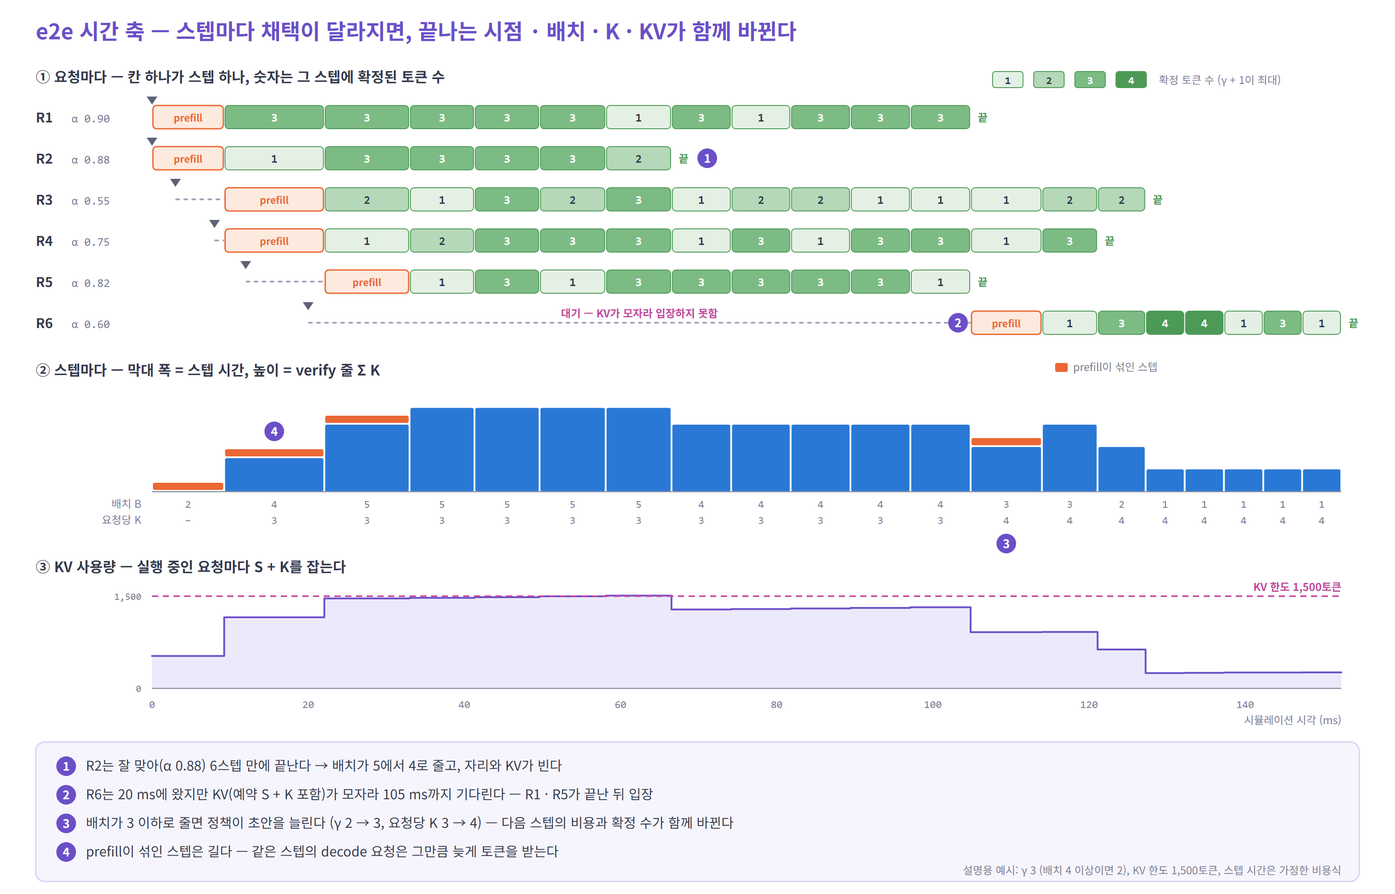
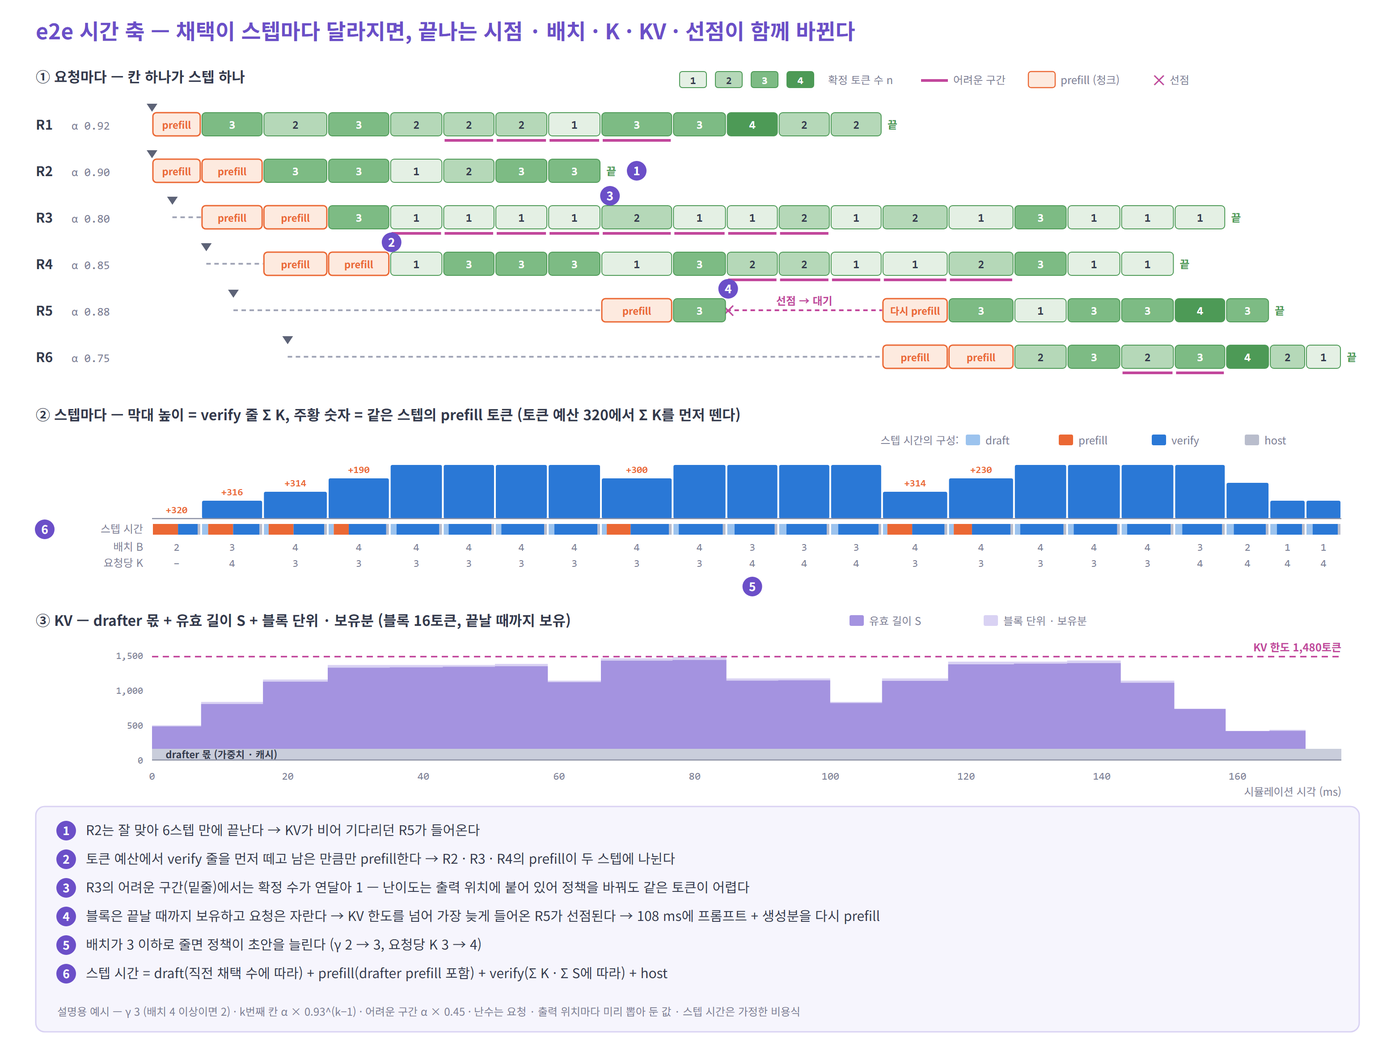
docs: put more of the simulator points into the e2e timeline figure
- Figure 31 now includes per-slot decay, output-position hard segments,
  pre-drawn random numbers, the token budget with chunked prefill,
  block-granular KV held until finish, drafter memory, preemption with
  re-prefill, and the step-time breakdown
- 06: symbol table, what varies per unit, and which of the eight points
  the figure covers

diff --git a/deepstudy/speculative-decoding/figures/make_figures.py b/deepstudy/speculative-decoding/figures/make_figures.py
@@ -903,65 +903,117 @@ def fig_sim_loop():
 
 
 # ---------------------------------------------------------------- 31. e2e 시간 축의 dynamics (작은 예시 시뮬레이션)
-E2E_REQ = {  # 도착 ms, 프롬프트, 출력 길이, α
-    "R1": (0, 300, 30, .90), "R2": (0, 220, 16, .88), "R3": (3, 360, 24, .55),
-    "R4": (8, 260, 28, .75), "R5": (12, 300, 22, .82), "R6": (20, 240, 18, .60)}
-E2E_CAP = 1500
+E2E_REQ = {  # 도착 ms, 프롬프트, 출력 길이 L, α, 어려운 구간(출력 위치 [시작, 끝))
+    "R1": (0, 300, 30, .92, [(12, 19)]), "R2": (0, 220, 16, .90, []),
+    "R3": (3, 360, 24, .80, [(3, 13)]), "R4": (8, 260, 28, .85, [(16, 22)]),
+    "R5": (12, 300, 22, .88, []), "R6": (20, 240, 18, .75, [(5, 9)])}
+E2E = dict(rho=0.93, hard=0.45, blk=16, cap=1480, dmem=160, budget=320, seed=5)
 
 
-def _e2e_sim(seed=11):
+def _e2e_sim():
+    import math
     import random
-    random.seed(seed)
-    st = {k: dict(arr=v[0], P=v[1], L=v[2], al=v[3], S=0, gen=0, state="wait", aprev=0, segs=[])
-          for k, v in E2E_REQ.items()}
-    t, steps = 0.0, []
+    P_ = E2E
+    rnd = random.Random(P_["seed"])
+    U = {k: [rnd.random() for _ in range(80)] for k in E2E_REQ}      # 요청 · 출력 위치마다 미리 뽑은 난수
+    st = {k: dict(arr=v[0], P=v[1], L=v[2], al=v[3], hard=v[4], state="wait", gen=0, S=0, done_pre=0, need_pre=v[1],
+                  held=0, aprev=0, segs=[], pres=[], order=None, events=[]) for k, v in E2E_REQ.items()}
+    nblk = (P_["cap"] - P_["dmem"]) // P_["blk"]
 
-    def gamma(B):          # Dynamic SD식: 배치 4 이상이면 초안을 줄인다
+    def blocks(tok):
+        return math.ceil(tok / P_["blk"])
+
+    def gamma(B):                                                     # 배치 4 이상이면 초안을 줄인다
         return 3 if B <= 3 else 2
+
+    def ishard(s, pos):
+        return any(a <= pos < b for a, b in s["hard"])
+    t, steps, order = 0.0, [], 0
     while any(s["state"] != "done" for s in st.values()):
-        run = [k for k, s in st.items() if s["state"] == "run"]
-        reserved = sum(st[k]["S"] + gamma(max(len(run), 1)) + 1 for k in run)
-        new = []
-        for k, s in st.items():
+        used = sum(s["held"] if s["state"] == "run" else blocks(s["need_pre"] + 4)
+                   for s in st.values() if s["state"] in ("run", "pre"))
+        for k, s in st.items():                                       # 입장: 프롬프트 블록이 지금 들어가야 한다
             if s["state"] == "wait" and s["arr"] <= t:
-                if reserved + s["P"] + gamma(len(run) + len(new) + 1) + 1 <= E2E_CAP:
-                    new.append(k)
-                    reserved += s["P"] + gamma(len(run) + len(new)) + 1
+                if used + blocks(s["need_pre"] + 4) <= nblk:
+                    order += 1
+                    s.update(state="pre", held=0, done_pre=0, order=order)
+                    s["events"].append(("adm", t))
+                    used += blocks(s["need_pre"] + 4)
                 else:
                     break
-        if not run and not new:
+        run = [k for k, s in st.items() if s["state"] == "run"]
+        pre = sorted([k for k, s in st.items() if s["state"] == "pre"], key=lambda k: st[k]["order"])
+        if not run and not pre:
             t = min(s["arr"] for s in st.values() if s["state"] == "wait")
             continue
-        B = len(run) + len(new)
-        g = gamma(B)
-        sumK = (g + 1) * len(run)
-        draft = (0.35 * g + 0.02 * sum(st[k]["aprev"] + 1 for k in run)) if run else 0
-        dt = 3.0 + 0.10 * sumK + 0.002 * sum(st[k]["S"] for k in run) + 0.012 * sum(st[k]["P"] for k in new) + draft
-        rec = dict(t0=t, t1=t + dt, B=B, K=(g + 1) if run else 0, sumK=sumK, pre=bool(new), resv=reserved)
+        K = gamma(len(run) + len(pre)) + 1
+        for k in run:                                                 # S + K 블록 — 끝날 때까지 줄이지 않는다
+            st[k]["held"] = max(st[k]["held"], blocks(st[k]["S"] + K))
+        left, chunks = P_["budget"] - K * len(run), {}                # 토큰 예산: 검증 줄을 먼저 뗀다
+        for k in pre:
+            s = st[k]
+            c = min(left, s["need_pre"] - s["done_pre"])
+            if c <= 0:
+                break
+            chunks[k] = c
+            left -= c
+            s["held"] = max(s["held"], blocks(s["done_pre"] + c))
+        preempted = []
+        while sum(st[k]["held"] for k in st if st[k]["state"] in ("run", "pre")) > nblk:   # 선점: 가장 늦게 들어온 요청
+            v = max([k for k in st if st[k]["state"] in ("run", "pre")], key=lambda k: st[k]["order"])
+            s = st[v]
+            s.update(state="wait", held=0, need_pre=s["P"] + s["gen"], done_pre=0, S=0)
+            s["events"].append(("preempt", t))
+            preempted.append(v)
+            if v in run:
+                run.remove(v)
+            chunks.pop(v, None)
+        g = gamma(len(run) + len(chunks))
+        K = g + 1
+        sumK = K * len(run)
+        draft = (0.30 * g + 0.03 * sum(st[k]["aprev"] + 1 for k in run)) if run else 0.0
+        prefill = sum(chunks.values()) * (0.010 + 0.002)                                  # target + drafter prefill
+        verify = 3.0 + 0.10 * sumK + 0.002 * sum(st[k]["S"] for k in run)
+        host = 0.4
+        dt = draft + prefill + verify + host
+        rec = dict(t0=t, t1=t + dt, B=len(run) + len(chunks), K=K if run else 0, sumK=sumK, chunk=sum(chunks.values()),
+                   comp=(draft, prefill, verify, host), preempted=preempted)
         for k in run:
             s = st[k]
+            g0 = s["gen"]
+            hard_any = any(ishard(s, g0 + j) for j in range(g))
             a = 0
-            while a < g and random.random() < s["al"]:
+            while a < g:
+                al = s["al"] * E2E["rho"] ** a * (E2E["hard"] if ishard(s, g0 + a) else 1.0)
+                if U[k][g0 + a] >= al:
+                    break
                 a += 1
             n = min(a + 1, s["L"] - s["gen"])
             s["gen"] += n
             s["S"] += n
             s["aprev"] = a
-            s["segs"].append((t, t + dt, n))
+            s["segs"].append((t, t + dt, n, hard_any))
             if s["gen"] >= s["L"]:
-                s["state"], s["fin"] = "done", t + dt
-        for k in new:
+                s.update(state="done", fin=t + dt, held=0)
+        for k, c in chunks.items():
             s = st[k]
-            s.update(state="run", S=s["P"] + 1, gen=1, adm=t, pre=(t, t + dt))
-        rec["valid"] = sum(s["S"] for s in st.values() if s["state"] == "run")
+            s["pres"].append((t, t + dt, c, s["need_pre"] > s["P"]))
+            s["done_pre"] += c
+            if s["done_pre"] >= s["need_pre"]:
+                s.update(state="run", S=s["need_pre"] + 1, aprev=0)
+                s["gen"] += 1
+                s["held"] = max(s["held"], blocks(s["S"]))
+        live = [s for s in st.values() if s["state"] in ("run", "pre")]
+        rec["valid"] = sum(s["S"] if s["state"] == "run" else s["done_pre"] for s in live)
+        rec["held"] = sum(s["held"] for s in live) * P_["blk"]
         steps.append(rec)
         t += dt
     return st, steps
 
 
 def fig_e2e_timeline():
-    f = Fig("31-e2e-timeline", 1560, 1000)
-    f.title(40, 44, "e2e 시간 축 — 스텝마다 채택이 달라지면, 끝나는 시점 · 배치 · K · KV가 함께 바뀐다")
+    f = Fig("31-e2e-timeline", 1560, 1190)
+    f.title(40, 44, "e2e 시간 축 — 채택이 스텝마다 달라지면, 끝나는 시점 · 배치 · K · KV · 선점이 함께 바뀐다")
     st, steps = _e2e_sim()
     T = steps[-1]["t1"]
     x0, x1 = 170, 1500
@@ -969,68 +1021,106 @@ def fig_e2e_timeline():
     def X(t):
         return x0 + t / T * (x1 - x0)
     GREEN = {1: "#e4f0e4", 2: "#b5d8b8", 3: "#7dbb84", 4: "#4d9a56"}
+    DRAFTC, HOSTC = "#9cc3ee", "#b9bdcc"
+
+    # 범례
+    lx = 760
+    for n in (1, 2, 3, 4):
+        f.rect(lx + (n - 1) * 40, 80, 30, 18, GREEN[n], KINDS["ok"][1], 3, 1)
+        f.text(lx + (n - 1) * 40 + 15, 94, str(n), 12, weight=700, color="#ffffff" if n >= 3 else INK, mono=True)
+    f.text(lx + 166, 94, "확정 토큰 수 n", 12, "start", color=MUTED)
+    f.line(lx + 270, 90, lx + 300, 90, KINDS["no"][1], 3)
+    f.text(lx + 306, 94, "어려운 구간", 12, "start", color=MUTED)
+    f.rect(lx + 390, 80, 30, 18, KINDS["t"][0], KINDS["t"][1], 3, 1.2)
+    f.text(lx + 426, 94, "prefill (청크)", 12, "start", color=MUTED)
+    f.text(lx + 530, 95, "✕", 15, "start", 700, KINDS["no"][1])
+    f.text(lx + 548, 94, "선점", 12, "start", color=MUTED)
 
     # ① 요청별 진행
-    f.text(40, 92, "① 요청마다 — 칸 하나가 스텝 하나, 숫자는 그 스텝에 확정된 토큰 수", 16, "start", 700)
+    f.text(40, 92, "① 요청마다 — 칸 하나가 스텝 하나", 16, "start", 700)
     rows = {}
     for i, (k, s) in enumerate(st.items()):
-        y = 116 + i * 46
+        y = 124 + i * 52
         rows[k] = y
         f.text(40, y + 21, k, 15, "start", 700)
         f.text(80, y + 21, f"α {s['al']:.2f}", 13, "start", color=MUTED, mono=True)
-        if s["adm"] > s["arr"] + 0.5:
-            f.line(X(s["arr"]), y + 15, X(s["adm"]), y + 15, "#a3a7b8", 2, "5 4")
-            if s["adm"] - s["arr"] > 30:
-                f.text((X(s["arr"]) + X(s["adm"])) / 2, y + 9, "대기 — KV가 모자라 입장하지 못함", 12, color=KINDS["no"][1], weight=700)
         f.raw(f'<path d="M{X(s["arr"]):.1f},{y + 1} l-6,-9 h12 z" fill="#5d6377"/>')
-        p0, p1 = s["pre"]
-        f.rect(X(p0) + 1, y + 2, X(p1) - X(p0) - 2, 26, KINDS["t"][0], KINDS["t"][1], 4, 1.5)
-        f.text((X(p0) + X(p1)) / 2, y + 20, "prefill", 11, color=KINDS["t"][1], weight=700)
-        for a_, b_, n in s["segs"]:
+        adm = [tt for e, tt in s["events"] if e == "adm"]
+        pre = [tt for e, tt in s["events"] if e == "preempt"]
+        if adm[0] > s["arr"] + 0.5:
+            f.line(X(s["arr"]), y + 15, X(adm[0]), y + 15, "#a3a7b8", 2, "5 4")
+        for tp in pre:
+            back = next(tt for tt in adm if tt > tp)
+            f.line(X(tp), y + 15, X(back), y + 15, KINDS["no"][1], 2, "5 4")
+            f.text(X(tp) + 2, y + 21, "✕", 16, "middle", 700, KINDS["no"][1])
+            f.text((X(tp) + X(back)) / 2, y + 9, "선점 → 대기", 12, weight=700, color=KINDS["no"][1])
+        for a_, b_, c, again in s["pres"]:
+            f.rect(X(a_) + 1, y + 2, X(b_) - X(a_) - 2, 26, KINDS["t"][0], KINDS["t"][1], 4, 1.5)
+            lab = "다시 prefill" if again else ("prefill" if X(b_) - X(a_) > 52 else "")
+            f.text((X(a_) + X(b_)) / 2, y + 20, lab, 11, color=KINDS["t"][1], weight=700)
+        for a_, b_, n, hard in s["segs"]:
             f.rect(X(a_) + 1, y + 2, X(b_) - X(a_) - 2, 26, GREEN[n], KINDS["ok"][1], 4, 1)
             f.text((X(a_) + X(b_)) / 2, y + 20, str(n), 13, weight=700, color="#ffffff" if n >= 3 else INK, mono=True)
-        f.text(X(s["fin"]) + 8, y + 20, "끝", 12, "start", 700, KINDS["ok"][1])
-    lx = 1110
-    for n in (1, 2, 3, 4):
-        f.rect(lx + (n - 1) * 46, 80, 34, 18, GREEN[n], KINDS["ok"][1], 3, 1)
-        f.text(lx + (n - 1) * 46 + 17, 94, str(n), 12, weight=700, color="#ffffff" if n >= 3 else INK, mono=True)
-    f.text(lx + 186, 94, "확정 토큰 수 (γ + 1이 최대)", 12, "start", color=MUTED)
+            if hard:
+                f.line(X(a_) + 2, y + 33, X(b_) - 2, y + 33, KINDS["no"][1], 3)
+        f.text(X(s["fin"]) + 6, y + 20, "끝", 12, "start", 700, KINDS["ok"][1])
 
-    # ② 스텝별 verify 줄 수와 배치
-    top2 = 420
-    f.text(40, top2, "② 스텝마다 — 막대 폭 = 스텝 시간, 높이 = verify 줄 Σ K", 16, "start", 700)
-    base2, hmax = top2 + 130, 100
+    # ② 스텝
+    top2 = 470
+    f.text(40, top2, f"② 스텝마다 — 막대 높이 = verify 줄 Σ K, 주황 숫자 = 같은 스텝의 prefill 토큰 (토큰 예산 {E2E['budget']}에서 Σ K를 먼저 뗀다)", 16,
+           "start", 700)
+    base2, hmax = top2 + 110, 80
     for r in steps:
+        xa, xb = X(r["t0"]), X(r["t1"])
         h = r["sumK"] / 16 * hmax
-        f.rect(X(r["t0"]) + 1, base2 - h, X(r["t1"]) - X(r["t0"]) - 2, h, SOLID["d"], "none", 2)
-        if r["pre"]:
-            f.rect(X(r["t0"]) + 1, base2 - h - 10, X(r["t1"]) - X(r["t0"]) - 2, 8, SOLID["t"], "none", 2)
-        f.text((X(r["t0"]) + X(r["t1"])) / 2, base2 + 18, str(r["B"]), 12, color=MUTED, mono=True)
-        f.text((X(r["t0"]) + X(r["t1"])) / 2, base2 + 36, str(r["K"]) if r["K"] else "–", 12, color=MUTED, mono=True)
+        f.rect(xa + 1, base2 - h, xb - xa - 2, h, SOLID["d"], "none", 2)
+        if r["chunk"]:
+            f.text((xa + xb) / 2, base2 - h - 6, f"+{r['chunk']}", 11, weight=700, color=SOLID["t"], mono=True)
+        xx = xa + 1                                                   # 스텝 시간의 구성: draft · prefill · verify · host
+        for part, col in zip(r["comp"], (DRAFTC, SOLID["t"], SOLID["d"], HOSTC)):
+            w = part / (r["t1"] - r["t0"]) * (xb - xa - 2)
+            if w > 0:
+                f.rect(xx, base2 + 6, w, 12, col, "none", 0)
+            xx += w
+        f.text((xa + xb) / 2, base2 + 36, str(r["B"]), 12, color=MUTED, mono=True)
+        f.text((xa + xb) / 2, base2 + 54, str(r["K"]) if r["K"] else "–", 12, color=MUTED, mono=True)
     f.line(x0, base2, x1, base2, "#8b90a3", 1.2)
-    f.text(x0 - 12, base2 + 18, "배치 B", 12, "end", color=MUTED)
-    f.text(x0 - 12, base2 + 36, "요청당 K", 12, "end", color=MUTED)
-    f.rect(1180, top2 - 14, 14, 10, SOLID["t"], "none", 2)
-    f.text(1200, top2 - 5, "prefill이 섞인 스텝", 12, "start", color=MUTED)
+    f.text(x0 - 10, base2 + 16, "스텝 시간", 12, "end", color=MUTED)
+    f.text(x0 - 10, base2 + 36, "배치 B", 12, "end", color=MUTED)
+    f.text(x0 - 10, base2 + 54, "요청당 K", 12, "end", color=MUTED)
+    lx2 = 1080
+    for i, (lab, col) in enumerate((("draft", DRAFTC), ("prefill", SOLID["t"]), ("verify", SOLID["d"]), ("host", HOSTC))):
+        f.rect(lx2 + i * 104, top2 + 16, 16, 12, col, "none", 2)
+        f.text(lx2 + i * 104 + 22, top2 + 27, lab, 12, "start", color=MUTED)
+    f.text(lx2 - 8, top2 + 27, "스텝 시간의 구성:", 12, "end", color=MUTED)
 
     # ③ KV
-    top3 = 640
-    f.text(40, top3, "③ KV 사용량 — 실행 중인 요청마다 S + K를 잡는다", 16, "start", 700)
-    base3, h3 = top3 + 130, 110
+    top3 = 700
+    f.text(40, top3, f"③ KV — drafter 몫 + 유효 길이 S + 블록 단위 · 보유분 (블록 {E2E['blk']}토큰, 끝날 때까지 보유)", 16, "start", 700)
+    base3, h3 = top3 + 150, 125
 
     def Y3(v):
         return base3 - v / 1600 * h3
-    pts_r = []
-    for r in steps:
-        pts_r += [(X(r["t0"]), Y3(r["resv"])), (X(r["t1"]), Y3(r["resv"]))]
-    f.raw('<polygon points="' + " ".join(f"{x:.1f},{y:.1f}" for x, y in [(X(0), base3)] + pts_r + [(X(T), base3)])
-          + f'" fill="{KINDS["c"][0]}" stroke="none"/>')
-    f.poly(pts_r, KINDS["c"][1], 2)
-    f.line(x0, Y3(E2E_CAP), x1, Y3(E2E_CAP), KINDS["no"][1], 1.8, "7 5")
-    f.text(x1, Y3(E2E_CAP) - 6, f"KV 한도 {E2E_CAP:,}토큰", 12, "end", 700, KINDS["no"][1])
+
+    def area(vals, col):
+        pts = []
+        for r, v in zip(steps, vals):
+            pts += [(X(r["t0"]), Y3(v)), (X(r["t1"]), Y3(v))]
+        f.raw('<polygon points="' + " ".join(f"{x:.1f},{y:.1f}" for x, y in [(X(0), base3)] + pts + [(X(T), base3)])
+              + f'" fill="{col}" stroke="none"/>')
+    dm = E2E["dmem"]
+    area([dm + r["held"] for r in steps], "#d9d2f3")
+    area([dm + r["valid"] for r in steps], "#a493e0")
+    f.rect(X(0), Y3(dm), X(T) - X(0), base3 - Y3(dm), "#c9cddb", "none", 0)
+    f.text(X(2), Y3(dm / 2) + 4, "drafter 몫 (가중치 · 캐시)", 11, "start", 700, INK)
+    f.line(x0, Y3(E2E["cap"]), x1, Y3(E2E["cap"]), KINDS["no"][1], 1.8, "7 5")
+    f.text(x1, Y3(E2E["cap"]) - 6, f"KV 한도 {E2E['cap']:,}토큰", 12, "end", 700, KINDS["no"][1])
     f.line(x0, base3, x1, base3, "#8b90a3", 1.2)
-    f.text(x0 - 12, Y3(1500) + 4, "1,500", 11, "end", color=MUTED, mono=True)
-    f.text(x0 - 12, base3 + 4, "0", 11, "end", color=MUTED, mono=True)
+    for v in (0, 500, 1000, 1500):
+        f.text(x0 - 10, Y3(v) + 4, f"{v:,}", 11, "end", color=MUTED, mono=True)
+    for i, (lab, col) in enumerate((("유효 길이 S", "#a493e0"), ("블록 단위 · 보유분", "#d9d2f3"))):
+        f.rect(950 + i * 150, top3 - 12, 16, 12, col, "none", 2)
+        f.text(972 + i * 150, top3 - 1, lab, 12, "start", color=MUTED)
     for tt in range(0, int(T) + 1, 20):
         f.text(X(tt), base3 + 22, f"{tt}", 12, color=MUTED, mono=True)
     f.text(x1, base3 + 40, "시뮬레이션 시각 (ms)", 12, "end", color=MUTED)
@@ -1039,26 +1129,35 @@ def fig_e2e_timeline():
     def mark(x, y, num):
         f.raw(f'<circle cx="{x:.1f}" cy="{y:.1f}" r="11" fill="{PURPLE}"/>')
         f.text(x, y + 5, str(num), 13, weight=700, color="#ffffff")
-    r2 = st["R2"]
+    r2, r3, r4, r5 = st["R2"], st["R3"], st["R4"], st["R5"]
     mark(X(r2["fin"]) + 40, rows["R2"] + 15, 1)
+    p4 = r4["pres"][1]
+    mark(X(p4[1]) + 2, rows["R4"] - 9, 2)
+    hard3 = [sg for sg in r3["segs"] if sg[3]]
+    mark((X(hard3[0][0]) + X(hard3[-1][1])) / 2, rows["R3"] - 9, 3)
+    tp = next(tt for e, tt in r5["events"] if e == "preempt")
+    mark(X(tp) + 2, rows["R5"] - 9, 4)
     kchg = next(r for i, r in enumerate(steps) if i and r["K"] == 4 and steps[i - 1]["K"] == 3)
-    mark(X(st["R6"]["adm"]) - 14, rows["R6"] + 15, 2)
-    mark((X(kchg["t0"]) + X(kchg["t1"])) / 2, base2 + 58, 3)
-    mark((X(steps[1]["t0"]) + X(steps[1]["t1"])) / 2, base2 - steps[1]["sumK"] / 16 * hmax - 30, 4)
+    mark((X(kchg["t0"]) + X(kchg["t1"])) / 2, base2 + 76, 5)
+    mark(x0 - 120, base2 + 12, 6)
 
-    f.rect(40, 830, 1480, 156, "#f6f5fd", "#d9d2f3", 10, 1.5)
+    readm = [tt for e, tt in r5["events"] if e == "adm"][1]
     notes = [
-        (1, f"R2는 잘 맞아(α 0.88) {len(r2['segs'])}스텝 만에 끝난다 → 배치가 5에서 4로 줄고, 자리와 KV가 빈다"),
-        (2, f"R6는 {st['R6']['arr']} ms에 왔지만 KV(예약 S + K 포함)가 모자라 {st['R6']['adm']:.0f} ms까지 기다린다 — R1 · R5가 끝난 뒤 입장"),
-        (3, "배치가 3 이하로 줄면 정책이 초안을 늘린다 (γ 2 → 3, 요청당 K 3 → 4) — 다음 스텝의 비용과 확정 수가 함께 바뀐다"),
-        (4, "prefill이 섞인 스텝은 길다 — 같은 스텝의 decode 요청은 그만큼 늦게 토큰을 받는다"),
+        (1, f"R2는 잘 맞아 {len(r2['segs'])}스텝 만에 끝난다 → KV가 비어 기다리던 R5가 들어온다"),
+        (2, "토큰 예산에서 verify 줄을 먼저 떼고 남은 만큼만 prefill한다 → R2 · R3 · R4의 prefill이 두 스텝에 나뉜다"),
+        (3, "R3의 어려운 구간(밑줄)에서는 확정 수가 연달아 1 — 난이도는 출력 위치에 붙어 있어 정책을 바꿔도 같은 토큰이 어렵다"),
+        (4, f"블록은 끝날 때까지 보유하고 요청은 자란다 → KV 한도를 넘어 가장 늦게 들어온 R5가 선점된다 → {readm:.0f} ms에 프롬프트 + 생성분을 다시 prefill"),
+        (5, "배치가 3 이하로 줄면 정책이 초안을 늘린다 (γ 2 → 3, 요청당 K 3 → 4)"),
+        (6, "스텝 시간 = draft(직전 채택 수에 따라) + prefill(drafter prefill 포함) + verify(Σ K · Σ S에 따라) + host"),
     ]
-    for i, (num, s) in enumerate(notes):
-        y = 862 + i * 32
+    f.rect(40, 902, 1480, 252, "#f6f5fd", "#d9d2f3", 10, 1.5)
+    for i, (num, s_) in enumerate(notes):
+        y = 934 + i * 32
         f.raw(f'<circle cx="74" cy="{y - 5}" r="11" fill="{PURPLE}"/>')
         f.text(74, y, str(num), 13, weight=700, color="#ffffff")
-        f.text(96, y, s, 15, "start")
-    f.text(1500, 978, "설명용 예시: γ 3 (배치 4 이상이면 2), KV 한도 1,500토큰, 스텝 시간은 가정한 비용식", 12, "end", color=MUTED)
+        f.text(96, y, s_, 15, "start")
+    f.text(64, 1136, f"설명용 예시 — γ 3 (배치 4 이상이면 2) · k번째 칸 α × {E2E['rho']}^(k−1) · 어려운 구간 α × {E2E['hard']} · "
+                     "난수는 요청 · 출력 위치마다 미리 뽑아 둔 값 · 스텝 시간은 가정한 비용식", 12, "start", color=MUTED)
     return f
 
 

diff --git a/deepstudy/speculative-decoding/06-sim-realism.md b/deepstudy/speculative-decoding/06-sim-realism.md
@@ -15,6 +15,49 @@
 - 루프가 이미 이 되먹임을 따라간다. speculative decoding 쪽에서 할 일은 **채택을 분포로 뽑아 주고**, 그 결과를 상태와 비용에 정확히 넘기는 것이다
 - 이번 스텝 verify의 비용은 넣은 줄 수 `K`로 정해지고 `a`와 무관하다. `a`는 **다음 스텝**의 비용(drafter 갱신 줄 수)과 상태를 바꾼다
 
+**기호**
+
+| 기호 | 뜻 | 그림 31에서 |
+|---|---|---|
+| `α` | 초안 한 칸이 맞을 확률 (앞 칸이 다 맞았을 때) | 요청마다 기준값 하나 — R6 0.75 … R1 0.92 |
+| `ρ` | 뒤 칸으로 갈수록 줄어드는 비율 — k번째 칸은 `α · ρ^(k−1)` | 0.93 |
+| 어려운 구간 | 출력 위치에 붙은 난이도 — 이 위치의 칸은 `α`에 0.45를 곱한다 | ①의 분홍 밑줄 |
+| `γ` | 요청당 초안 수 | 배치 3 이하면 3, 4 이상이면 2 |
+| `K` | 요청당 verify 줄 수 = `γ + 1` (직전 확정 토큰 1 + 초안 `γ`) | ② 아래 셋째 줄 |
+| `a` | 이번 스텝에 채택된 초안 수 (0 ~ `γ`) | 앞 칸부터 통과 여부를 보고, 처음 틀린 칸에서 멈춤 |
+| `n` | 이번 스텝에 확정된 토큰 수 = `min(a + 1, L − 지금까지 생성한 수)` | ① 칸 안의 숫자 |
+| `L` | 요청의 출력 길이 (워크로드가 정한다) | 16 ~ 30 |
+| `B` | 이번 스텝에 들어간 요청 수 (decode + prefill) | ② 아래 둘째 줄 |
+| `Σ K` | 스텝 하나의 verify 줄 합 | ② 막대 높이 |
+| `S` | 요청의 유효 KV 길이 (프롬프트 + 생성한 토큰) | ③ 진한 보라 |
+| 할당 블록 | `S + K`를 16토큰 블록으로 올림한 것 — 끝날 때까지 줄이지 않는다 | ③ 연한 보라 |
+
+**그림 31은 무엇을 어떤 단위로 바꿨나**
+
+| 단위 | 바꾼 것 |
+|---|---|
+| 요청마다 | 기준 `α`, 도착 시각, 프롬프트 길이, 출력 길이 `L`, 어려운 구간의 위치 |
+| 초안 칸(자리)마다 | 뒤 칸일수록 낮아진다 — `α · 0.93^(k−1)` |
+| 출력 위치마다 | 어려운 구간이면 `α × 0.45`. 통과 여부를 정하는 난수도 **요청 · 출력 위치마다 미리 뽑아 둔 값**이다 |
+| 스텝마다 | 위 값들로 `a`를 정한다 → `n`이 매번 다르다. 배치 `B`를 보고 `γ`를 정한다. 토큰 예산 · KV로 입장 · prefill 청크 · 선점을 정한다 |
+
+- 스텝 시간(가정한 식, ms) = draft `0.30·γ + 0.03·Σ(a_prev + 1)` + prefill `0.012·(prefill 토큰)`(drafter prefill 포함) + verify `3.0 + 0.10·ΣK + 0.002·ΣS` + host `0.4`
+- 토큰 예산 320: verify 줄 `Σ K`를 먼저 떼고, 남은 만큼 prefill 청크를 넣는다
+- KV 한도 1,480토큰 중 160은 drafter 몫. 새 요청은 프롬프트 블록이 지금 들어가야 입장한다. 자라는 요청 때문에 한도를 넘으면 가장 늦게 들어온 요청을 선점하고, 나중에 프롬프트 + 생성분을 다시 prefill한다
+
+**아래 8개 포인트 중 그림 31에 들어간 것** — 그림은 되먹임의 **모양**을 보이는 예시다. 시뮬레이터에는 1 ~ 8을 모두 넣는다
+
+| # | 포인트 | 그림 31 |
+|---|---|---|
+| 1 | 채택 모형 | ○ 요청별 `α` · 칸별 감쇠 · 출력 위치별 어려운 구간. 온도 · 트리는 없다 |
+| 2 | verify 비용 | ○ `ΣK` · `ΣS`에 비례 (가정한 선형식) |
+| 3 | draft 비용 | ○ `γ`와 직전 채택 수에 따라 바뀐다. prefill 스텝에 drafter prefill. 통신은 없다 |
+| 4 | 자원 계산 | ○ 토큰 예산 · `S + K` 블록 · 블록 보유 · drafter 메모리 |
+| 5 | `K` 정책 | △ 배치 크기별 `γ` (vLLM Dynamic SD식). adaptive · DSpark · 비동기 스케줄링은 없다 |
+| 6 | 확정 처리 | ○ `n = min(a + 1, L − 생성한 수)`, 한꺼번에 내보내기 |
+| 7 | drafter 상태 | △ drafter prefill · 선점 후 다시 prefill. P/D · prefix 적중은 없다 (요청 하나짜리 그림으로 보이기 어렵다) |
+| 8 | 기록과 검증 | △ 요청 · 출력 위치마다 미리 뽑은 난수. 정책 두 개를 나란히 비교한 그림은 아니다 |
+
 ---
 
 ## 주요 구현 포인트 — 중요한 순서
